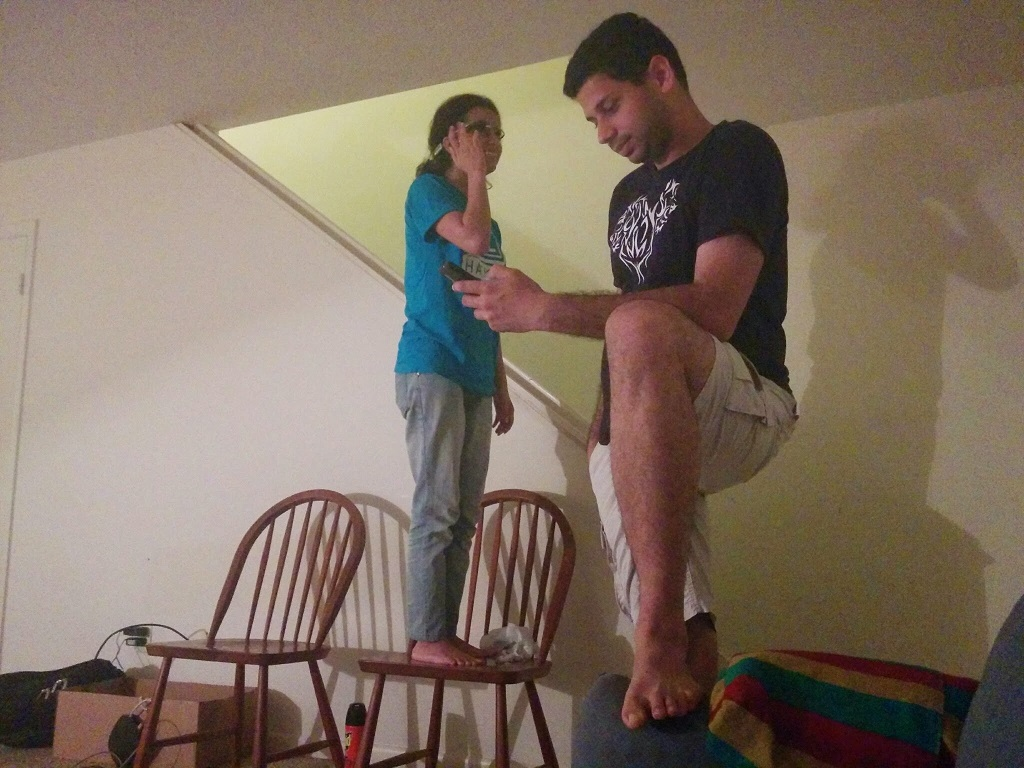
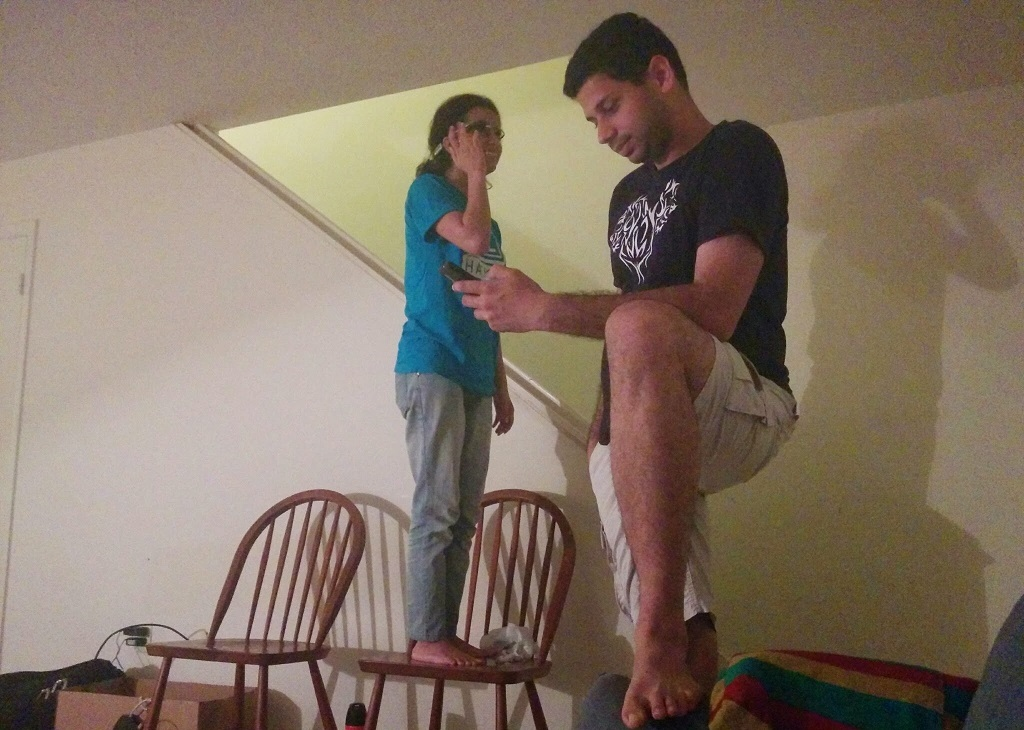
Image resolution updated and text changes

diff --git a/js/bgSlideShow.js b/js/bgSlideShow.js
@@ -29,7 +29,7 @@ var cbpBGSlideshow = (function() {
 		// true if the slideshow is active
 		isSlideshowActive = true,
 		// it takes 3.5 seconds to change the background image
-		interval = 3500;
+		interval = 4000;
 
 	var desc = [
 		{ title: "A Look Back - 2014" , subTitle: "Its time to look back and reflect on all that was accomplished throughout the year, and extend gratitude to everyone for their love and support."},
@@ -57,7 +57,7 @@ var cbpBGSlideshow = (function() {
 		{ title: "Career", subTitle: "The Excitement"},
 		{ title: "Career", subTitle: "Work"},
 		{ title: "Experiences", subTitle: "'just' One In Whole Year"},
-		{ title: "Experiences", subTitle: "^..^..^..^..^^"},
+		{ title: "Experiences", subTitle: "^..^..^..^..^"},
 		{ title: "Experiences", subTitle: "Yoga - A Journey To Inner Peace"},
 		{ title: "Naughtiness", subTitle: "Spoiler Alert"},
 		{ title: "Naughtiness", subTitle: "This Is Mine"},
@@ -75,7 +75,7 @@ var cbpBGSlideshow = (function() {
 		{ title: "Materialism", subTitle: "And These"},
 		{ title: "Materialism", subTitle: "And This"},
 		{ title: "Materialism", subTitle: "Just For Pic"},
-		{ title: "Materialism", subTitle: "Long Drive Alone w/ Punjabi Music (700m)"},
+		{ title: "Random", subTitle: "Long Drive Alone w/ Punjabi Music (700m)"},
 		{ title: "Thank You!! It's Been a Great Year", subTitle: "Looking Forward To Another Rocking Year"}
 		];
 
